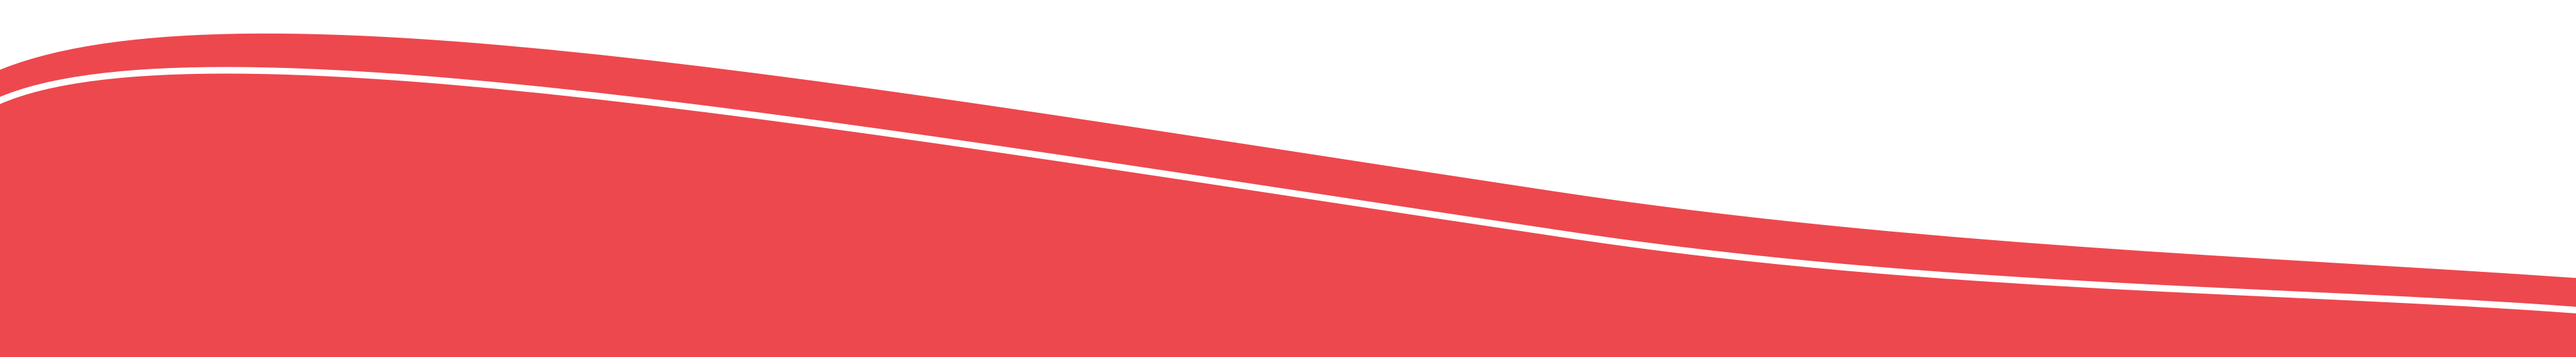
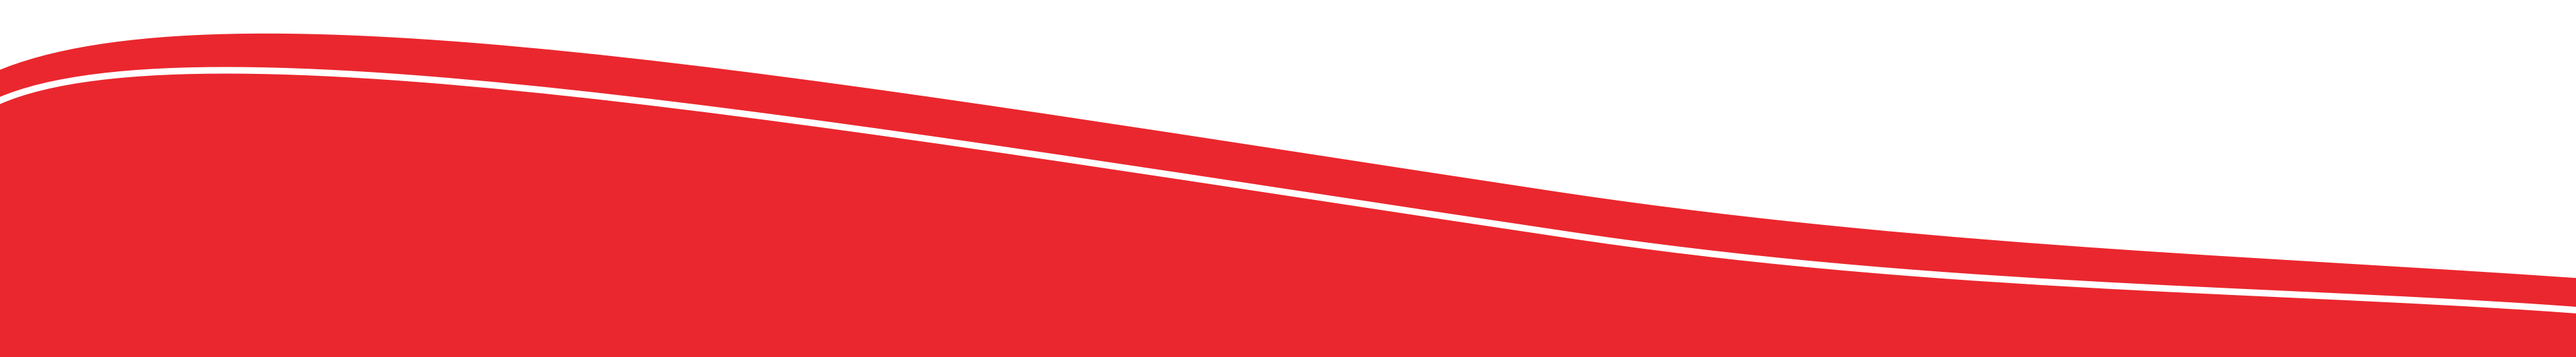
header styling

diff --git a/css/style.css b/css/style.css
@@ -451,14 +451,19 @@ h6 {
   position: relative;
   grid-template-areas: "nav" "text" "img";
   padding: 0 1rem;
-  background-image: url("../img/stripe-2.png"), url("../img/stripe-bottom.png"), url("../img/header-background-1.jpg");
-  background-size: contain, contain, cover;
+  background-image: url("../img/header-table.png"), url("../img/header-background-1.jpg");
+  background-size: contain, cover;
   background-repeat: no-repeat;
-  background-position: top, bottom, bottom;
-  background-attachment: scroll, scroll, fixed;
+  background-position: bottom, bottom;
+  background-attachment: scroll, fixed;
 }
 @media screen and (min-width: 55em) {
   .header {
+    background-image: url("../img/stripe-1.png"), url("../img/stripe-bottom.png"), url("../img/header-background-1.jpg");
+    background-size: contain, contain, cover;
+    background-repeat: no-repeat;
+    background-position: top, bottom;
+    background-attachment: scroll, scroll, fixed;
     grid-template-columns: 1fr 1fr;
     padding: 0 5rem;
     grid-template-areas: "nav nav" "text img";

diff --git a/sass/layout/_header.scss b/sass/layout/_header.scss
@@ -12,14 +12,20 @@
   // grid-gap: 10vh;
   padding: 0 1rem;
 
-  background-image: url("../img/stripe-2.png"), url("../img/stripe-bottom.png"),
+  background-image: url("../img/header-table.png"),
     url("../img/header-background-1.jpg");
-  background-size: contain, contain, cover;
+  background-size: contain, cover;
   background-repeat: no-repeat;
-  background-position: top, bottom, bottom;
-  background-attachment: scroll, scroll, fixed;
+  background-position: bottom, bottom;
+  background-attachment: scroll, fixed;
 
   @media screen and (min-width: $bp-md) {
+    background-image: url("../img/stripe-1.png"),
+      url("../img/stripe-bottom.png"), url("../img/header-background-1.jpg");
+    background-size: contain, contain, cover;
+    background-repeat: no-repeat;
+    background-position: top, bottom;
+    background-attachment: scroll, scroll, fixed;
     grid-template-columns: 1fr 1fr;
     padding: 0 5rem;
     // min-height: 100vh;
